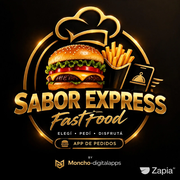
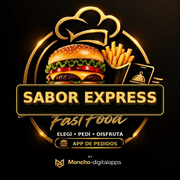
Add order confirmation and kitchen queue
Show a saved-order confirmation, update the owner queue oldest-first in real time, add WhatsApp status notices, and refresh clean Sabor Express icons.

diff --git a/index.html b/index.html
@@ -30,6 +30,16 @@
 #sendOrder{min-height:48px;font-size:14px}
 @media(max-width:760px){#menu,#pedido{padding-left:12px;padding-right:12px}.product-info{padding:13px}.product-info h3{font-size:16px}}
 [hidden]{display:none!important}
+.notify-link{display:inline-flex;align-items:center;justify-content:center;margin-top:8px;padding:8px 12px;border-radius:10px;background:#d8f5e2;color:#14532d;font-size:12px;font-weight:800;text-decoration:none}.notify-link:hover{filter:brightness(.96)}
+.modal-backdrop{position:fixed;inset:0;z-index:30;background:#101810b8;display:grid;place-items:center;padding:16px}
+.success-card{width:min(100%,440px);background:#fffdf7;border-radius:24px;padding:28px 22px;text-align:center;box-shadow:0 20px 70px #0005;position:relative;border:2px solid #d7ec76}
+.success-icon{display:grid;place-items:center;margin:0 auto 14px;width:60px;height:60px;border-radius:50%;background:#d7ec76;color:#18251c;font-size:32px;font-weight:900}
+.success-card h2{font:800 24px/1.1 Manrope,sans-serif;margin:0 26px 12px;color:#18251c}
+.success-card p{font-size:14px;line-height:1.5;color:#526056;margin:0 0 14px}
+.success-card .order-code{font-size:13px;font-weight:700;color:#18251c}
+.success-card .button{width:100%;min-height:48px;margin-top:8px}
+.success-secondary{border:1px solid #dfe4d8;background:#fff;color:#18251c;border-radius:999px;padding:12px 16px;font-weight:800;cursor:pointer}
+.modal-close{position:absolute;right:12px;top:10px;border:0;background:transparent;font-size:28px;color:#637062;cursor:pointer}
 </style></head>
 <body>
 <header class="topbar"><a class="brand" href="#inicio" aria-label="Sabor Express, inicio"><span class="brand-mark"><img src="/icon-192.png" alt="SE"></span><span><b>SABOR EXPRESS</b><small>By Moncho-digitalapps</small></span></a><div class="admin-links"><button type="button" data-panel="ownerPanel">Mi local</button><button type="button" id="adminNavButton" class="hide" data-panel="foodAdminPanel">Panel admin</button><a class="cart-jump" href="#pedido">🛒 Mi pedido <span id="cartCount">0</span></a></div></header>
@@ -40,7 +50,7 @@
 <section id="authPanel" class="panel"><h2>Acceso de dueños</h2><p class="panel-intro">Este acceso es solo para el dueño. Registrá el correo una vez y verificalo; después podrás crear el local y cargar el menú. Los clientes solo escanean el QR y hacen pedidos, sin crear cuenta.</p><div class="panel-card"><form id="authForm"><div class="panel-grid"><label>Email<input type="email" id="authEmail" required autocomplete="email" maxlength="254"></label><label>Contraseña<input type="password" id="authPassword" required autocomplete="current-password" minlength="6"></label></div><div class="field-row"><button class="panel-button" type="submit" id="loginButton">Ingresar</button><button class="panel-button secondary" type="button" id="signupButton">Crear cuenta</button><button class="text-button" type="button" id="resetButton">Recuperar contraseña</button></div><button class="text-button hide" type="button" id="logoutButton">Cerrar sesión</button><p id="authStatus" class="panel-alert" role="status"></p><button class="text-button hide" type="button" id="verifyButton">Reenviar correo de verificación</button></form><form id="passwordForm" class="hide"><label>Nueva contraseña<input type="password" id="newPassword" minlength="6" required></label><button class="panel-button" type="submit">Guardar nueva contraseña</button></form></div></section>
 <section id="ownerPanel" class="panel"><h2>Mi local: registro y menú</h2><p class="panel-intro" id="ownerIntro">Ingresá con tu cuenta para configurar el comercio, los platos y los pedidos.</p><div id="ownerContent"></div></section>
 <section id="foodAdminPanel" class="panel"><h2>Administración Sabor Express</h2><p class="panel-intro">Panel privado de los 7 locales piloto. Las fechas vencidas se muestran como aviso; solo la suspensión manual pausa los pedidos.</p><div id="foodAdminContent" class="panel-card"><p>Verificando permisos de administración…</p></div></section>
-</main><footer><span>SABOR EXPRESS · MENÚ DIGITAL</span><span>By Moncho-digitalapps</span><span>Pedidos guardados en Firebase</span></footer>
+</main><div id="orderSuccess" class="modal-backdrop hide" role="dialog" aria-modal="true" aria-labelledby="successTitle"><div class="success-card"><button id="closeSuccess" class="modal-close" type="button" aria-label="Cerrar">×</button><span class="success-icon" aria-hidden="true">✓</span><h2 id="successTitle">¡Muchas gracias por tu pedido!</h2><p>Tu pedido quedó reservado y registrado. Te avisaremos por WhatsApp cuando salga el envío o esté listo para retirar.</p><p class="order-code">Pedido <b id="successCode"></b></p><a id="sendWhatsAppLink" class="button primary full" target="_blank" rel="noopener" href="#">Enviar pedido por WhatsApp</a><button id="continueShopping" class="success-secondary" type="button">Volver al menú</button></div></div><footer><span>SABOR EXPRESS · MENÚ DIGITAL</span><span>By Moncho-digitalapps</span><span>Pedidos guardados en Firebase</span></footer>
 <script type="module">
 import { initializeApp } from 'https://www.gstatic.com/firebasejs/13.0.0/firebase-app.js';
 import {
@@ -49,7 +59,7 @@ import {
   sendPasswordResetEmail, signOut, updatePassword
 } from 'https://www.gstatic.com/firebasejs/13.0.0/firebase-auth.js';
 import {
-  getFirestore, collection, doc, getDoc, getDocs, query, where,
+  getFirestore, collection, doc, getDoc, getDocs, query, where, onSnapshot,
   addDoc, setDoc, updateDoc, deleteDoc, serverTimestamp, runTransaction, writeBatch
 } from 'https://www.gstatic.com/firebasejs/13.0.0/firebase-firestore.js';
 
@@ -77,7 +87,7 @@ function dailyCount(b=business){return b&&b.ordersDate===todayKey()?Number(b.ord
 function dailyLimit(b=business){const n=Number(b&&b.dailyLimit);return n>0?n:10;}
 function canAcceptOrders(b=business){return !!b&&b.acceptingOrders!==false&&dailyCount(b)<dailyLimit(b);}
 function updateOrderAvailability(){const el=$('orderAvailability');if(!el)return;if(!business){el.textContent='Elegí un local para hacer tu pedido.';el.classList.add('closed');return;}const count=dailyCount(),limit=dailyLimit();const paused=business.acceptingOrders===false,full=count>=limit;el.classList.toggle('closed',paused||full);el.textContent=paused?'Pedidos pausados por el local':full?'Cupo completo por hoy':`Pedidos abiertos · ${limit-count} cupos disponibles hoy`;}
-let businesses = [], business = null, menu = [], cart = {}, category = 'Todo', session = null, ownerBusiness = null, selectedPhoto = 'hamburguesa';
+let businesses = [], business = null, menu = [], cart = {}, category = 'Todo', session = null, ownerBusiness = null, selectedPhoto = 'hamburguesa', ownerOrdersUnsub = null;
 const $ = id => document.getElementById(id);
 const businessRef = id => doc(db, 'foodBusinesses', id);
 const controlRef = id => doc(db, 'foodControl', id);
@@ -94,6 +104,10 @@ function friendlyError(e) {
 }
 function togglePanel(id) { document.querySelectorAll('.panel').forEach(p=>p.classList.toggle('open',p.id===id&&!p.classList.contains('open'))); const p=$(id); if(p.classList.contains('open'))p.scrollIntoView({behavior:'smooth',block:'start'}); }
 document.querySelectorAll('[data-panel]').forEach(b=>b.addEventListener('click',()=>{togglePanel(b.dataset.panel);if(b.dataset.panel==='ownerPanel')loadOwnerPanel();if(b.dataset.panel==='foodAdminPanel')loadFoodAdmin();if(b.dataset.panel==='authPanel')$('authEmail').focus();}));
+function closeOrderSuccess(){$('orderSuccess').classList.add('hide');document.body.style.overflow='';}
+$('closeSuccess').addEventListener('click',closeOrderSuccess);
+$('continueShopping').addEventListener('click',()=>{closeOrderSuccess();location.hash='#menu';});
+$('orderSuccess').addEventListener('click',e=>{if(e.target===$('orderSuccess'))closeOrderSuccess();});
 
 async function loadPilotStatus(){try{const s=await getDoc(doc(db,'foodMeta','pilot'));const n=s.exists()?Number(s.data().count||0):0;$('pilotStatus').textContent=`Piloto: ${n} de 7 locales registrados.`;}catch(err){$('pilotStatus').textContent='Piloto de hasta 7 locales.';}}
 async function loadBusinesses(){
@@ -143,7 +157,7 @@ $('checkoutForm').addEventListener('submit',async e=>{
       tx.set(orderRef,{businessId:business.id,orderCode:code,customerName,customerPhone,mode,address,note,items,total,status:'nuevo',createdAt:serverTimestamp()});
       business={...business,...data,ordersDate:today,ordersToday:count+1,dailyLimit:limit};
     });
-    cart={};renderCart();updateOrderAvailability();renderMenu();$('orderStatus').textContent='Pedido listo. Abriendo WhatsApp…';window.location.href=link;
+    cart={};renderCart();updateOrderAvailability();renderMenu();$('orderStatus').textContent='Pedido reservado y registrado.';$('successCode').textContent=code;$('sendWhatsAppLink').href=link;$('orderSuccess').classList.remove('hide');document.body.style.overflow='hidden';
   }catch(err){const m=String(err&&err.message||'');if(m==='orders-paused')alertText('orderStatus','El local pausó los pedidos.',true);else if(m==='daily-cap-reached')alertText('orderStatus','El cupo de pedidos de hoy se completó.',true);else if(m==='local-unavailable')alertText('orderStatus','El local no está disponible.',true);else alertText('orderStatus',friendlyError(err),true);console.error(err);}finally{button.disabled=false;}
 });
 
@@ -153,7 +167,7 @@ $('authForm').addEventListener('submit',async e=>{e.preventDefault();try{await s
 $('signupButton').addEventListener('click',async()=>{const email=$('authEmail').value.trim(),password=$('authPassword').value;if(!email||password.length<6){alertText('authStatus','Ingresá un email y una contraseña de al menos 6 caracteres.',true);return;}try{const cred=await createUserWithEmailAndPassword(auth,email,password);await sendEmailVerification(cred.user);alertText('authStatus','Cuenta creada. Verificá el correo y después ingresá para crear tu local.');}catch(err){alertText('authStatus',friendlyError(err),true);}});
 $('verifyButton').addEventListener('click',async()=>{if(!auth.currentUser){alertText('authStatus','Iniciá sesión primero.',true);return;}try{await sendEmailVerification(auth.currentUser);alertText('authStatus','Correo de verificación reenviado. Revisá Recibidos y Spam.');}catch(err){alertText('authStatus',friendlyError(err),true);}});
 $('resetButton').addEventListener('click',async()=>{const email=$('authEmail').value.trim();if(!email){alertText('authStatus','Escribí tu email y volvé a tocar Recuperar contraseña.',true);return;}try{await sendPasswordResetEmail(auth,email);alertText('authStatus','Si el correo está registrado, Firebase enviará el enlace para recuperar la contraseña.');}catch(err){alertText('authStatus',friendlyError(err),true);}});
-$('logoutButton').addEventListener('click',async()=>{await signOut(auth);session=null;ownerBusiness=null;await updateAuthUI();loadOwnerPanel();});
+$('logoutButton').addEventListener('click',async()=>{if(ownerOrdersUnsub){ownerOrdersUnsub();ownerOrdersUnsub=null;}await signOut(auth);session=null;ownerBusiness=null;await updateAuthUI();loadOwnerPanel();});
 $('passwordForm').addEventListener('submit',async e=>{e.preventDefault();if(!auth.currentUser)return;try{await updatePassword(auth.currentUser,$('newPassword').value);alertText('authStatus','Contraseña actualizada.');$('passwordForm').classList.add('hide');}catch(err){alertText('authStatus',friendlyError(err)+' Si hace falta, cerrá sesión e ingresá de nuevo antes de cambiarla.',true);}});
 onAuthStateChanged(auth,()=>updateAuthUI());
 function photoChoices(){return Object.keys(PHOTOS).map(k=>`<button type="button" class="photo-option ${selectedPhoto===k?'selected':''}" data-photo="${k}" title="${k}"><img src="${PHOTOS[k]}" alt="${k}"></button>`).join('');}
@@ -171,7 +185,7 @@ async function loadOwnerPanel(){
     }
     const businessId=mem.data().businessId;const bSnap=await getDoc(businessRef(businessId));if(!bSnap.exists()){throw new Error('No se encontró el local asociado a esta cuenta.');}
     ownerBusiness={id:bSnap.id,...bSnap.data()};$('ownerIntro').textContent=`Administrando ${ownerBusiness.name} · ${session.email}`;
-    $('ownerContent').innerHTML=`<div class="panel-card"><h3>Perfil del local</h3><form id="profileForm"><div class="panel-grid"><label>Nombre<input id="pName" required value="${esc(ownerBusiness.name)}" maxlength="100"></label><label>Identificador / URL<input id="pSlug" readonly value="${esc(ownerBusiness.slug)}"></label><label>Dirección<input id="pAddress" value="${esc(ownerBusiness.address||'')}" maxlength="200"></label><label>WhatsApp<input id="pWhatsapp" value="${esc(ownerBusiness.whatsapp||'')}" maxlength="30"></label><label>Horario<input id="pHours" value="${esc(ownerBusiness.hours||'')}" maxlength="200"></label><label class="flag"><input id="pAccept" type="checkbox" ${ownerBusiness.acceptingOrders===false?'':'checked'}> Aceptar pedidos</label><label>Cupo diario<input id="pDailyLimit" type="number" min="1" max="100" required value="${Number(ownerBusiness.dailyLimit||10)}"></label></div><button class="panel-button" type="submit">Guardar perfil y disponibilidad</button><p id="profileStatus" class="panel-alert"></p></form></div><div class="panel-card"><h3>Menú y platos</h3><form id="itemForm"><input type="hidden" id="itemId"><div class="panel-grid"><label>Nombre del plato<input id="iName" required maxlength="100"></label><label>Categoría<input id="iCategory" required maxlength="60" value="Platos"></label><label>Precio (ARS)<input id="iPrice" type="number" min="0" step="0.01" required></label><label>Orden<input id="iOrder" type="number" step="1" value="0"></label></div><label>Descripción<textarea id="iDescription" maxlength="300"></textarea></label><div class="photos-field">Elegí una foto fija del menú:<div class="image-choice">${photoChoices()}</div></div><label class="flag"><input type="checkbox" id="iActive" checked> Producto disponible</label><div class="field-row"><button class="panel-button" type="submit">Guardar producto</button><button class="panel-button secondary" id="newItem" type="button">Nuevo</button></div><p id="itemStatus" class="panel-alert"></p></form><div id="ownerMenuList" class="menu-admin-list"></div></div><div class="panel-card"><h3>Pedidos recibidos</h3><p class="panel-intro">Los clientes hacen pedidos sin cuenta. Revisá el detalle y confirmá el total con el cliente.</p><div id="ownerOrders" class="menu-admin-list">Cargando…</div></div>`;
+    $('ownerContent').innerHTML=`<div class="panel-card"><h3>Perfil del local</h3><form id="profileForm"><div class="panel-grid"><label>Nombre<input id="pName" required value="${esc(ownerBusiness.name)}" maxlength="100"></label><label>Identificador / URL<input id="pSlug" readonly value="${esc(ownerBusiness.slug)}"></label><label>Dirección<input id="pAddress" value="${esc(ownerBusiness.address||'')}" maxlength="200"></label><label>WhatsApp<input id="pWhatsapp" value="${esc(ownerBusiness.whatsapp||'')}" maxlength="30"></label><label>Horario<input id="pHours" value="${esc(ownerBusiness.hours||'')}" maxlength="200"></label><label class="flag"><input id="pAccept" type="checkbox" ${ownerBusiness.acceptingOrders===false?'':'checked'}> Aceptar pedidos</label><label>Cupo diario<input id="pDailyLimit" type="number" min="1" max="100" required value="${Number(ownerBusiness.dailyLimit||10)}"></label></div><button class="panel-button" type="submit">Guardar perfil y disponibilidad</button><p id="profileStatus" class="panel-alert"></p></form></div><div class="panel-card"><h3>Menú y platos</h3><form id="itemForm"><input type="hidden" id="itemId"><div class="panel-grid"><label>Nombre del plato<input id="iName" required maxlength="100"></label><label>Categoría<input id="iCategory" required maxlength="60" value="Platos"></label><label>Precio (ARS)<input id="iPrice" type="number" min="0" step="0.01" required></label><label>Orden<input id="iOrder" type="number" step="1" value="0"></label></div><label>Descripción<textarea id="iDescription" maxlength="300"></textarea></label><div class="photos-field">Elegí una foto fija del menú:<div class="image-choice">${photoChoices()}</div></div><label class="flag"><input type="checkbox" id="iActive" checked> Producto disponible</label><div class="field-row"><button class="panel-button" type="submit">Guardar producto</button><button class="panel-button secondary" id="newItem" type="button">Nuevo</button></div><p id="itemStatus" class="panel-alert"></p></form><div id="ownerMenuList" class="menu-admin-list"></div></div><div class="panel-card"><h3>Pedidos recibidos</h3><p class="panel-intro">Los pedidos aparecen en tiempo real y por orden de llegada: el más antiguo primero. Marcá si está en cocina, listo o en camino; desde ahí podés avisar al cliente por WhatsApp.</p><div id="ownerOrders" class="menu-admin-list">Cargando…</div></div>`;
     document.querySelectorAll('[data-photo]').forEach(x=>x.addEventListener('click',()=>{selectedPhoto=x.dataset.photo;document.querySelectorAll('[data-photo]').forEach(y=>y.classList.toggle('selected',y===x));}));
     $('profileForm').addEventListener('submit',saveProfile);$('itemForm').addEventListener('submit',saveItem);$('newItem').addEventListener('click',resetItemForm);
     await loadOwnerMenu();await loadOwnerOrders();
@@ -198,7 +212,9 @@ async function saveProfile(e){e.preventDefault();try{const limit=Math.max(1,Math
 async function loadOwnerMenu(){try{const snap=await getDocs(query(collection(db,'foodMenuItems'),where('businessId','==',ownerBusiness.id)));const data=snap.docs.map(d=>({id:d.id,...d.data()})).sort((a,b)=>(a.order||0)-(b.order||0)||String(a.name).localeCompare(String(b.name),'es'));$('ownerMenuList').innerHTML=data.map(i=>`<div class="menu-admin-row"><img src="${PHOTOS[i.photoKey]||''}" alt=""><span><b>${esc(i.name)}</b><br>${esc(i.category)} · ${money(i.price)} · ${i.active?'Disponible':'Oculto'}</span><span><button class="text-button" data-edit-item="${i.id}">Editar</button> <button class="text-button" data-delete-item="${i.id}">Eliminar</button></span></div>`).join('')||'<p class="empty">Todavía no cargaste productos.</p>';document.querySelectorAll('[data-edit-item]').forEach(x=>x.addEventListener('click',()=>{const i=data.find(d=>d.id===x.dataset.editItem);$('itemId').value=i.id;$('iName').value=i.name;$('iCategory').value=i.category;$('iPrice').value=i.price;$('iOrder').value=i.order||0;$('iDescription').value=i.description||'';$('iActive').checked=!!i.active;selectedPhoto=i.photoKey||'hamburguesa';document.querySelectorAll('[data-photo]').forEach(y=>y.classList.toggle('selected',y.dataset.photo===selectedPhoto));$('itemForm').scrollIntoView({behavior:'smooth'});}));document.querySelectorAll('[data-delete-item]').forEach(x=>x.addEventListener('click',async()=>{if(!confirm('¿Eliminar este producto?'))return;try{await deleteDoc(doc(db,'foodMenuItems',x.dataset.deleteItem));await loadOwnerMenu();}catch(err){alert(friendlyError(err));}}));}catch(e){$('ownerMenuList').innerHTML=`<p class="panel-alert error">${esc(friendlyError(e))}</p>`;}}
 function resetItemForm(){$('itemForm').reset();$('itemId').value='';$('iCategory').value='Platos';$('iOrder').value='0';$('iActive').checked=true;selectedPhoto='hamburguesa';document.querySelectorAll('[data-photo]').forEach(y=>y.classList.toggle('selected',y.dataset.photo===selectedPhoto));}
 async function saveItem(e){e.preventDefault();const row={businessId:ownerBusiness.id,ownerUid:session.uid,name:$('iName').value.trim(),category:$('iCategory').value.trim(),price:Number($('iPrice').value),order:Number($('iOrder').value)||0,description:$('iDescription').value.trim(),photoKey:selectedPhoto,active:$('iActive').checked,updatedAt:serverTimestamp()};try{const id=$('itemId').value;if(id)await updateDoc(doc(db,'foodMenuItems',id),row);else await addDoc(collection(db,'foodMenuItems'),{...row,createdAt:serverTimestamp()});alertText('itemStatus','Producto guardado.');resetItemForm();await loadOwnerMenu();await selectBusiness((business ? business.slug : '')||'');}catch(err){alertText('itemStatus',friendlyError(err),true);}}
-async function loadOwnerOrders(){try{const snap=await getDocs(query(collection(db,'foodOrders'),where('businessId','==',ownerBusiness.id)));const data=snap.docs.map(d=>({id:d.id,...d.data()})).sort((a,b)=>timestampMs(b.createdAt)-timestampMs(a.createdAt)).slice(0,100);const todayOrders=data.filter(o=>o.createdAt&&typeof o.createdAt.toDate==='function'&&todayKey(o.createdAt.toDate())===todayKey()).length;const limit=dailyLimit(ownerBusiness);const summary=`<p class="panel-intro">Pedidos de hoy: <b>${todayOrders} de ${limit}</b>${todayOrders>=limit?' · Cupo completo por hoy.':''}</p>`;const statuses=['nuevo','preparando','listo','entregado','cancelado'];$('ownerOrders').innerHTML=summary+(data.map(o=>`<article class="owner-order"><div><b>Pedido ${esc(o.orderCode)} · ${money(o.total)}</b><p>${esc(o.customerName)} · ${esc(o.customerPhone)} · ${o.mode==='envio'?'Envío: '+esc(o.address||''):'Retiro'}</p><p>${timestampText(o.createdAt)} · Nota: ${esc(o.note||'—')}</p><p>${(o.items||[]).map(x=>`${x.quantity} × ${esc(x.name)} (${money(x.subtotal)})`).join(' · ')}</p></div><select data-state="${o.id}" aria-label="Estado del pedido">${statuses.map(s=>`<option value="${s}" ${o.status===s?'selected':''}>${s}</option>`).join('')}</select></article>`).join('')||'<p class="empty">Todavía no hay pedidos.</p>');document.querySelectorAll('[data-state]').forEach(x=>x.addEventListener('change',async()=>{try{await updateDoc(doc(db,'foodOrders',x.dataset.state),{status:x.value});}catch(err){alert('No se pudo actualizar: '+friendlyError(err));}}));}catch(e){$('ownerOrders').innerHTML=`<p class="panel-alert error">${esc(friendlyError(e))}</p>`;}}
+function orderUpdateLink(o){const phone=String(o.customerPhone||'').replace(/\D/g,'');if(!phone||o.status!=='listo')return'';const message=o.mode==='retiro'?`Hola ${o.customerName}, tu pedido ${o.orderCode} está listo para retirar.`:`Hola ${o.customerName}, tu pedido ${o.orderCode} salió del local y está en camino.`;return `https://wa.me/${phone}?text=${encodeURIComponent(message)}`;}
+function renderOwnerOrders(all){const todayOrders=all.filter(o=>o.createdAt&&typeof o.createdAt.toDate==='function'&&todayKey(o.createdAt.toDate())===todayKey()).length;const limit=dailyLimit(ownerBusiness);const queue=all.filter(o=>!['entregado','cancelado'].includes(o.status)).sort((a,b)=>timestampMs(a.createdAt)-timestampMs(b.createdAt));const summary=`<p class="panel-intro">Pedidos de hoy: <b>${todayOrders} de ${limit}</b>${todayOrders>=limit?' · Cupo completo por hoy.':''} · Los más antiguos aparecen primero.</p>`;$('ownerOrders').innerHTML=summary+(queue.map(o=>{const link=orderUpdateLink(o),statuses=[['nuevo','Recibido'],['preparando','En cocina'],['listo',o.mode==='retiro'?'Listo para retirar':'En camino'],['entregado','Entregado'],['cancelado','Cancelado']];return `<article class="owner-order"><div><b>Pedido ${esc(o.orderCode)} · ${money(o.total)}</b><p>Recibido: ${timestampText(o.createdAt)}</p><p>${esc(o.customerName)} · ${esc(o.customerPhone)} · ${o.mode==='envio'?'Envío: '+esc(o.address||''):'Retiro'}</p><p>${(o.items||[]).map(x=>`${x.quantity} × ${esc(x.name)} (${money(x.subtotal)})`).join(' · ')}</p><p>Nota: ${esc(o.note||'—')}</p>${link?`<a class="notify-link" href="${link}" target="_blank" rel="noopener">Avisar al cliente por WhatsApp</a>`:''}</div><select data-state="${o.id}" aria-label="Estado del pedido">${statuses.map(([value,label])=>`<option value="${value}" ${o.status===value?'selected':''}>${label}</option>`).join('')}</select></article>`;}).join('')||'<p class="empty">No hay pedidos pendientes.</p>');document.querySelectorAll('[data-state]').forEach(x=>x.addEventListener('change',async()=>{try{await updateDoc(doc(db,'foodOrders',x.dataset.state),{status:x.value});}catch(err){alert('No se pudo actualizar: '+friendlyError(err));}}));}
+function loadOwnerOrders(){if(ownerOrdersUnsub){ownerOrdersUnsub();ownerOrdersUnsub=null;}try{const q=query(collection(db,'foodOrders'),where('businessId','==',ownerBusiness.id));ownerOrdersUnsub=onSnapshot(q,snap=>{const all=snap.docs.map(d=>({id:d.id,...d.data()})).sort((a,b)=>timestampMs(a.createdAt)-timestampMs(b.createdAt));renderOwnerOrders(all);},e=>{$('ownerOrders').innerHTML=`<p class="panel-alert error">${esc(friendlyError(e))}</p>`;});}catch(e){$('ownerOrders').innerHTML=`<p class="panel-alert error">${esc(friendlyError(e))}</p>`;}}
 function dateLabel(v){if(!v)return'Sin fecha de vencimiento';const d=new Date(v+'T00:00:00'),today=new Date();today.setHours(0,0,0,0);const n=Math.floor((d-today)/86400000);return n<0?`Vencido hace ${Math.abs(n)} días`:`${n} días restantes`;}
 async function loadFoodAdmin(){
   if(!session){$('foodAdminContent').innerHTML='<p>Iniciá sesión con la cuenta administradora para abrir este panel.</p>';return;}

diff --git a/sw.js b/sw.js
@@ -1,4 +1,4 @@
-const CACHE_NAME = "sabor-express-shell-v1";
+const CACHE_NAME = "sabor-express-shell-v3";
 const CORE_ASSETS = ["/", "/manifest.webmanifest", "/icon-192.png", "/icon-512.png", "/apple-touch-icon.png"];
 
 self.addEventListener("install", event => {
